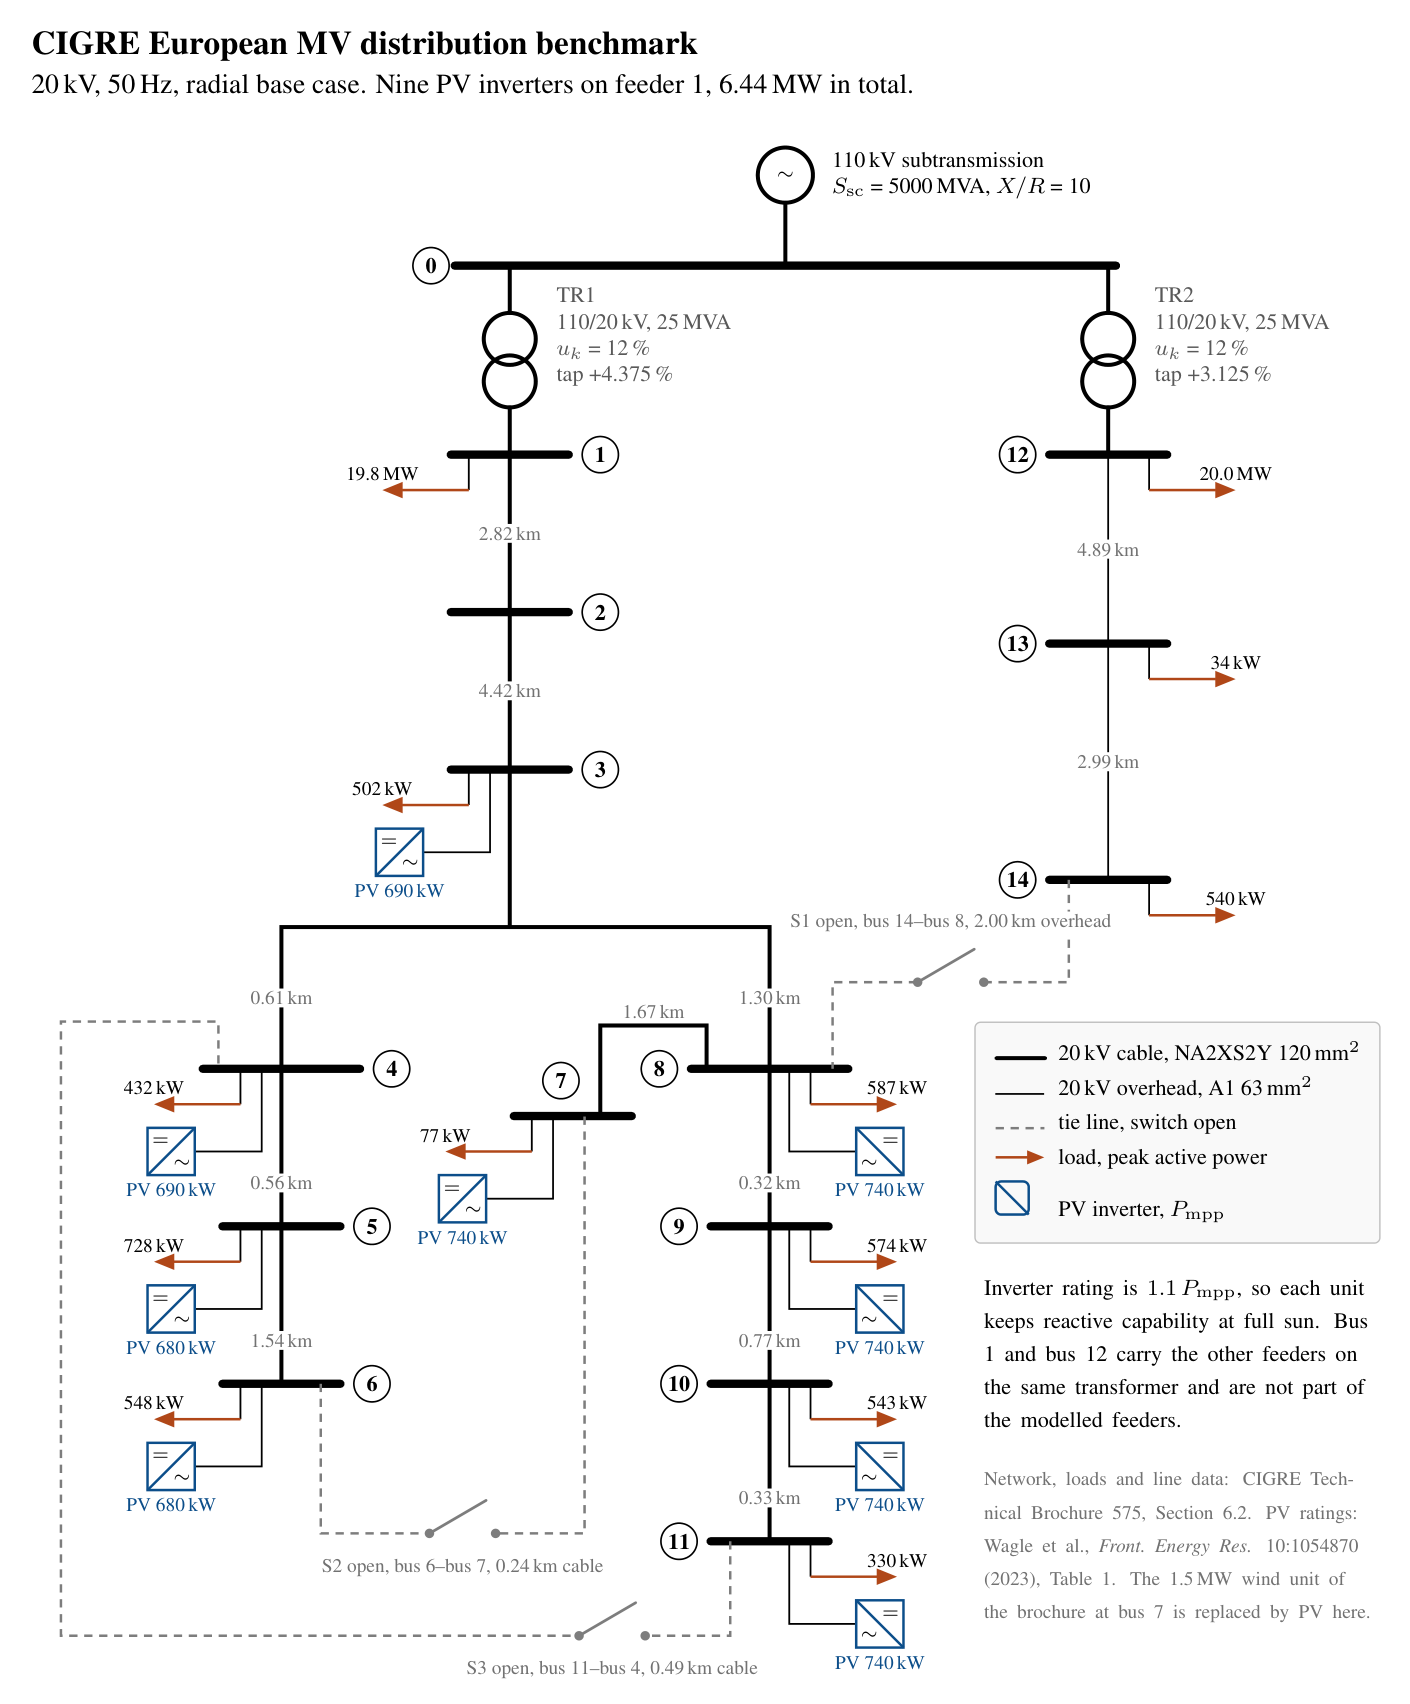
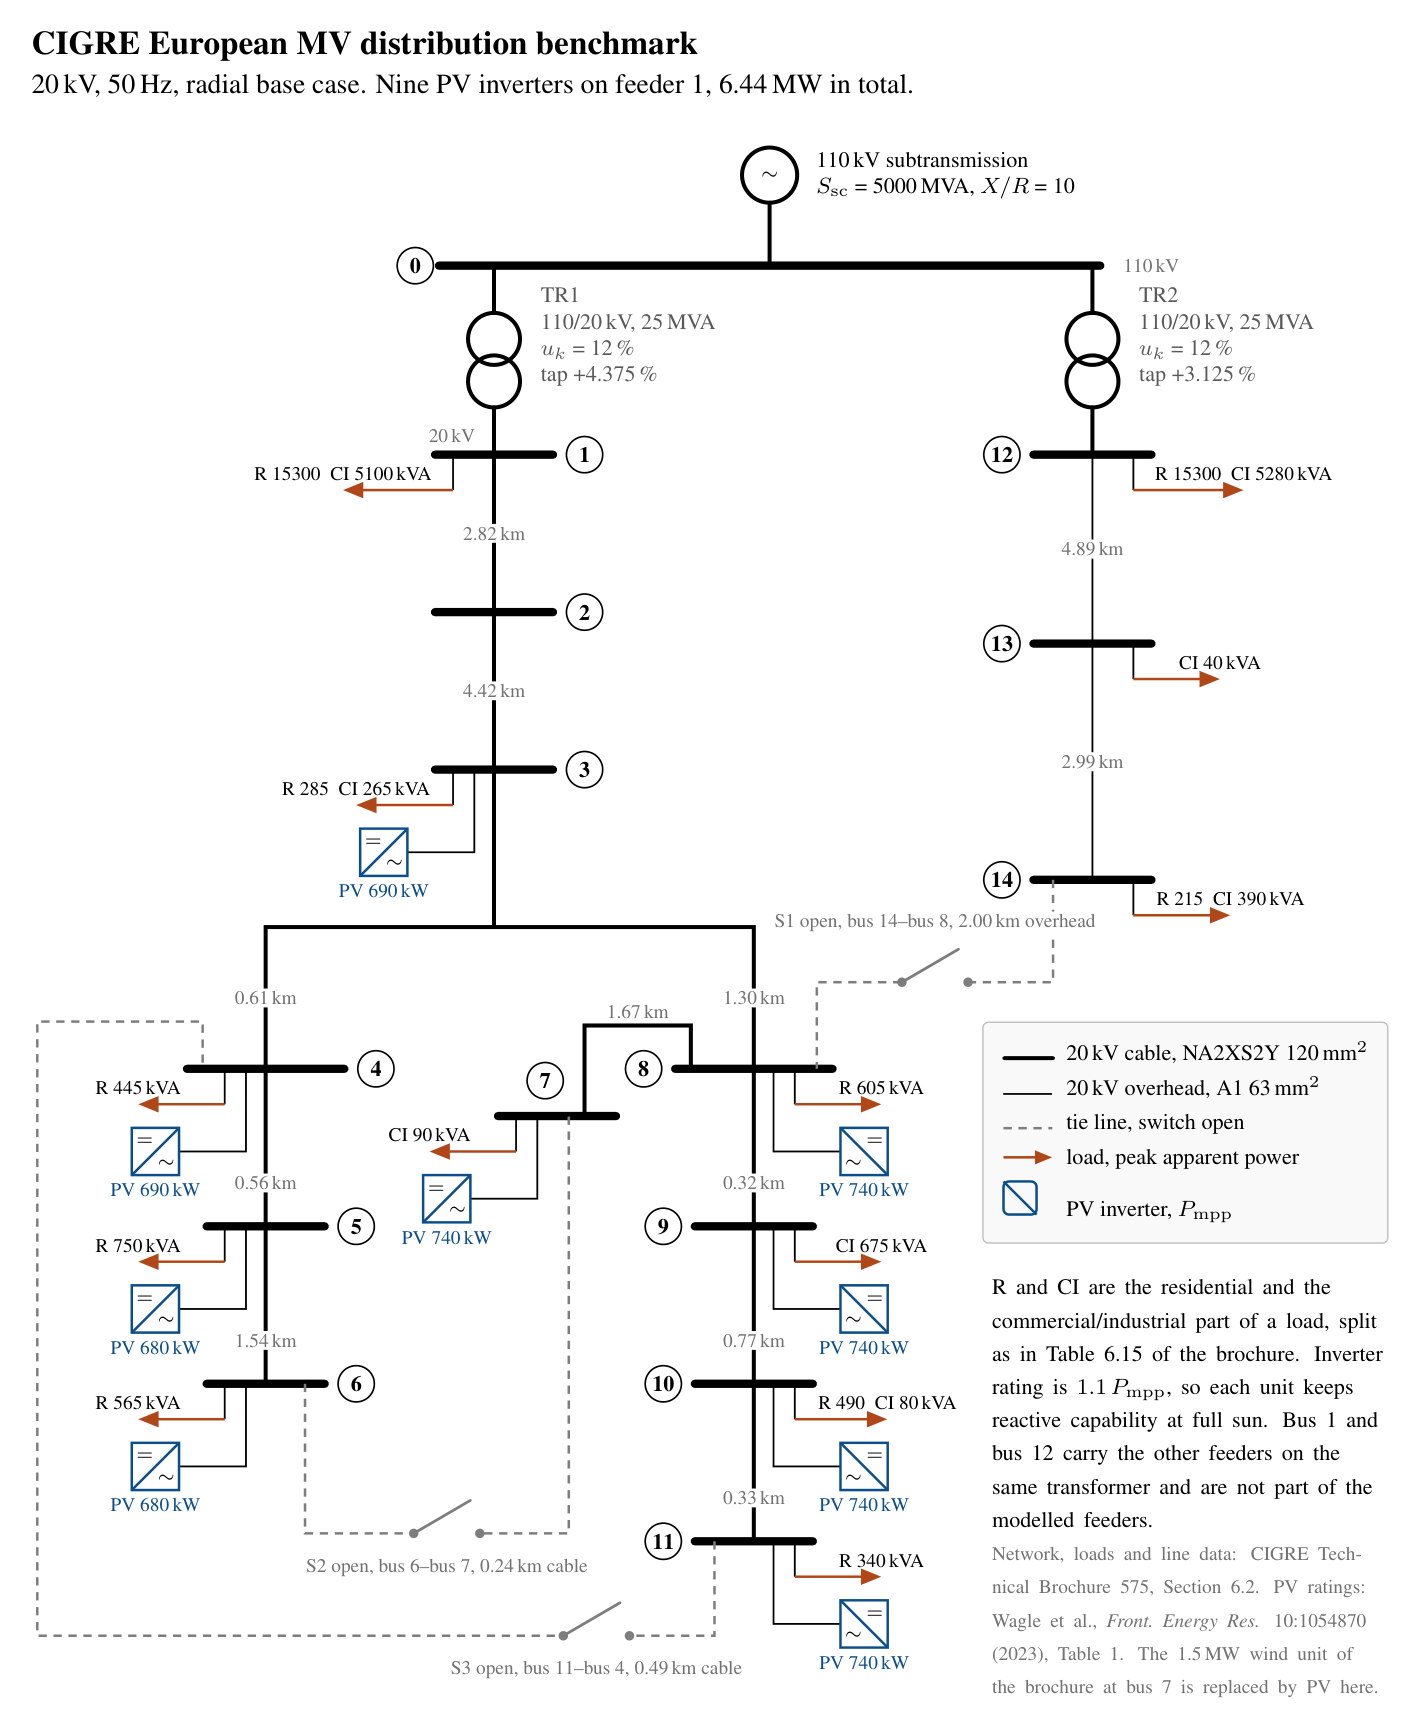
Label loads as the brochure splits them, and mark the voltage levels
Each load is now shown as its residential and commercial/industrial
parts in kVA, the way Table 6.15 tabulates them, instead of one total
in kW, and the two voltage levels are marked on the bars. The load arm
is sized from the label so the wide ones at buses 1 and 12 stay clear
of the drop.

diff --git a/src/make_sld.py b/src/make_sld.py
@@ -25,11 +25,19 @@ with open(os.path.join(ROOT, "data", "cigre_mv_european_tb575.json")) as f:
 PV_KW = {3: 690, 4: 690, 5: 680, 6: 680, 7: 740, 8: 740, 9: 740, 10: 740, 11: 740}
 TR1_TAP = 4.375
 
-load_kw = {}
+# Loads are labelled the way the brochure tabulates them (Table 6.15): the
+# residential and the commercial/industrial part of each node, in kVA.
+load_kva = {}
 for l in d["loads"]:
-    load_kw[l["bus"]] = sum(
-        l[k]["P_kW_derived"] for k in ("residential", "commercial_industrial")
-        if l.get(k) and l[k].get("S_kVA"))
+    parts = []
+    for key, tag in (("residential", "R"), ("commercial_industrial", "CI")):
+        if l.get(key) and l[key].get("S_kVA"):
+            parts.append(rf"{tag} {l[key]['S_kVA']:g}")
+    if parts:
+        # the label, and the arm length it needs so that it clears the drop
+        text = r"\enspace ".join(parts) + r"\,kVA"
+        chars = len("  ".join(parts)) + 4
+        load_kva[l["bus"]] = (text, max(1.62, 0.80 + 0.112 * chars / 2))
 seg = {}
 for l in d["lines"]:
     seg[(l["from_bus"], l["to_bus"])] = l
@@ -66,10 +74,6 @@ T = []
 add = T.append
 
 
-def kw(p):
-    return f"{p / 1000:.1f}\\,MW" if p >= 1000 else f"{int(p + 0.5)}\\,kW"
-
-
 def bus_bar(b, x, y, side):
     """The bus number goes on the side away from the load and PV drops."""
     s = -1 if side == "r" else 1
@@ -95,13 +99,14 @@ def inverter(x, y, face, h=0.30):
 def taps(b, x, y, side, load_drop=0.45):
     """Load and PV both drop off the bus bar and then turn out to the side."""
     s = -1 if side == "l" else 1
-    if load_kw.get(b):
+    if b in load_kva:
+        text, arm = load_kva[b]
         tx, ay = x + s * 0.52, y - load_drop
         add(rf"\draw[tap] ({tx},{y}) -- ({tx},{ay});")
         add(rf"\draw[load,-{{Triangle[length=2.6mm,width=2.0mm]}}] "
-            rf"({tx},{ay}) -- ({x + s * 1.62},{ay});")
-        add(rf"\node[rating,anchor=south] at ({x + s * 1.62},{ay + 0.08}) "
-            rf"{{{kw(load_kw[b])}}};")
+            rf"({tx},{ay}) -- ({x + s * arm},{ay});")
+        add(rf"\node[rating,anchor=south] at ({x + s * arm},{ay + 0.08}) "
+            rf"{{{text}}};")
     if b in PV_KW:
         tx, py, bx = x + s * 0.25, y - 1.05, x + s * 1.40
         add(rf"\draw[tap] ({tx},{y}) -- ({tx},{py}) -- ({bx - s * 0.30},{py});")
@@ -136,6 +141,8 @@ def tie(sid, path, xsw, ysw, above=False):
 # --- HV source and transformers -------------------------------------------
 add(rf"\draw[bus] (1.3,{HV_Y}) -- (9.7,{HV_Y});")
 add(rf"\node[bnum] at (1.00,{HV_Y}) {{0}};")
+add(rf"\node[seg,anchor=west] at (9.95,{HV_Y}) {{110\,kV}};")
+add(rf"\node[seg,anchor=south east] at ({XH - 0.20},{Y1 + 0.12}) {{20\,kV}};")
 add(rf"\draw[cable] (5.50,{HV_Y}) -- (5.50,{HV_Y + 0.80});")
 add(rf"\draw[cable] (5.50,{HV_Y + 1.15}) circle (0.35);")
 add(rf"\node[glyph] at (5.50,{HV_Y + 1.15}) {{$\sim$}};")
@@ -186,16 +193,16 @@ tie("S1", f"({XF2 - att(14)},{-4.6}) -- ({XF2 - att(14)},{-5.9}) -- "
 tie("S2", f"({XL + att(6)},{R3}) -- ({XL + att(6)},{-12.9}) -- "
           f"({X7 + 0.15},{-12.9}) -- ({X7 + 0.15},{Y7})", 1.40, -12.9)
 tie("S3", f"({XR - att(11)},{R4}) -- ({XR - att(11)},{-14.2}) -- "
-          f"(-3.70,{-14.2}) -- (-3.70,{R1 + 0.60}) -- "
+          f"(-3.80,{-14.2}) -- (-3.80,{R1 + 0.60}) -- "
           f"({XL - att(4)},{R1 + 0.60}) -- ({XL - att(4)},{R1})", 3.30, -14.2)
 
 # --- titles and legend -----------------------------------------------------
-add(r"\node[anchor=north west,align=left] at (-4.2,6.3) {\large\bfseries "
+add(r"\node[anchor=north west,align=left] at (-4.0,6.3) {\large\bfseries "
     r"CIGRE European MV distribution benchmark\\[2pt]"
     r"\normalsize\mdseries 20\,kV, 50\,Hz, radial base case. "
     r"Nine PV inverters on feeder 1, 6.44\,MW in total.};")
 
-LX, LY = 7.90, -6.4
+LX, LY = 8.20, -6.4
 add(rf"\node[anchor=north west,align=left,draw=black!25,line width=0.5pt,"
     rf"rounded corners=2pt,inner sep=7pt,fill=black!2] at ({LX},{LY}) {{%")
 add(r"\footnotesize\begin{tabular}{@{}l@{\ \ }l@{}}")
@@ -203,16 +210,18 @@ add(r"\tikz{\draw[cable] (0,0) -- (0.62,0);} & 20\,kV cable, NA2XS2Y 120\,mm$^2$
 add(r"\tikz{\draw[ohl] (0,0) -- (0.62,0);} & 20\,kV overhead, A1 63\,mm$^2$\\[3pt]")
 add(r"\tikz{\draw[tie] (0,0) -- (0.62,0);} & tie line, switch open\\[3pt]")
 add(r"\tikz{\draw[load,-{Triangle[length=2.2mm,width=1.7mm]}] (0,0) -- (0.62,0);} "
-    r"& load, peak active power\\[3pt]")
+    r"& load, peak apparent power\\[3pt]")
 add(r"\tikz{\draw[pvbox] (0.16,-0.21) rectangle (0.58,0.21);"
     r"\draw[pvbox] (0.16,0.21) -- (0.58,-0.21);} & PV inverter, $P_{\mathrm{mpp}}$\\")
 add(r"\end{tabular}};")
 add(rf"\node[anchor=north west,align=left,text width=5.0cm] at ({LX},{LY - 3.15}) "
-    r"{\footnotesize Inverter rating is $1.1\,P_{\mathrm{mpp}}$, so each unit keeps "
-    r"reactive capability at full sun. Bus 1 and bus 12 carry the other feeders on "
-    r"the same transformer and are not part of the modelled feeders.};")
+    r"{\footnotesize R and CI are the residential and the commercial/industrial part "
+    r"of a load, split as in Table 6.15 of the brochure. Inverter rating is "
+    r"$1.1\,P_{\mathrm{mpp}}$, so each unit keeps reactive capability at full sun. "
+    r"Bus 1 and bus 12 carry the other feeders on the same transformer and are not "
+    r"part of the modelled feeders.};")
 add(rf"\node[anchor=north west,align=left,text width=5.0cm,text=black!55] "
-    rf"at ({LX},{LY - 5.60}) "
+    rf"at ({LX},{LY - 6.55}) "
     r"{\scriptsize Network, loads and line data: CIGRE Technical Brochure 575, "
     r"Section 6.2. PV ratings: Wagle et al., \emph{Front.\ Energy Res.} "
     r"10:1054870 (2023), Table 1. The 1.5\,MW wind unit of the brochure at bus 7 "
